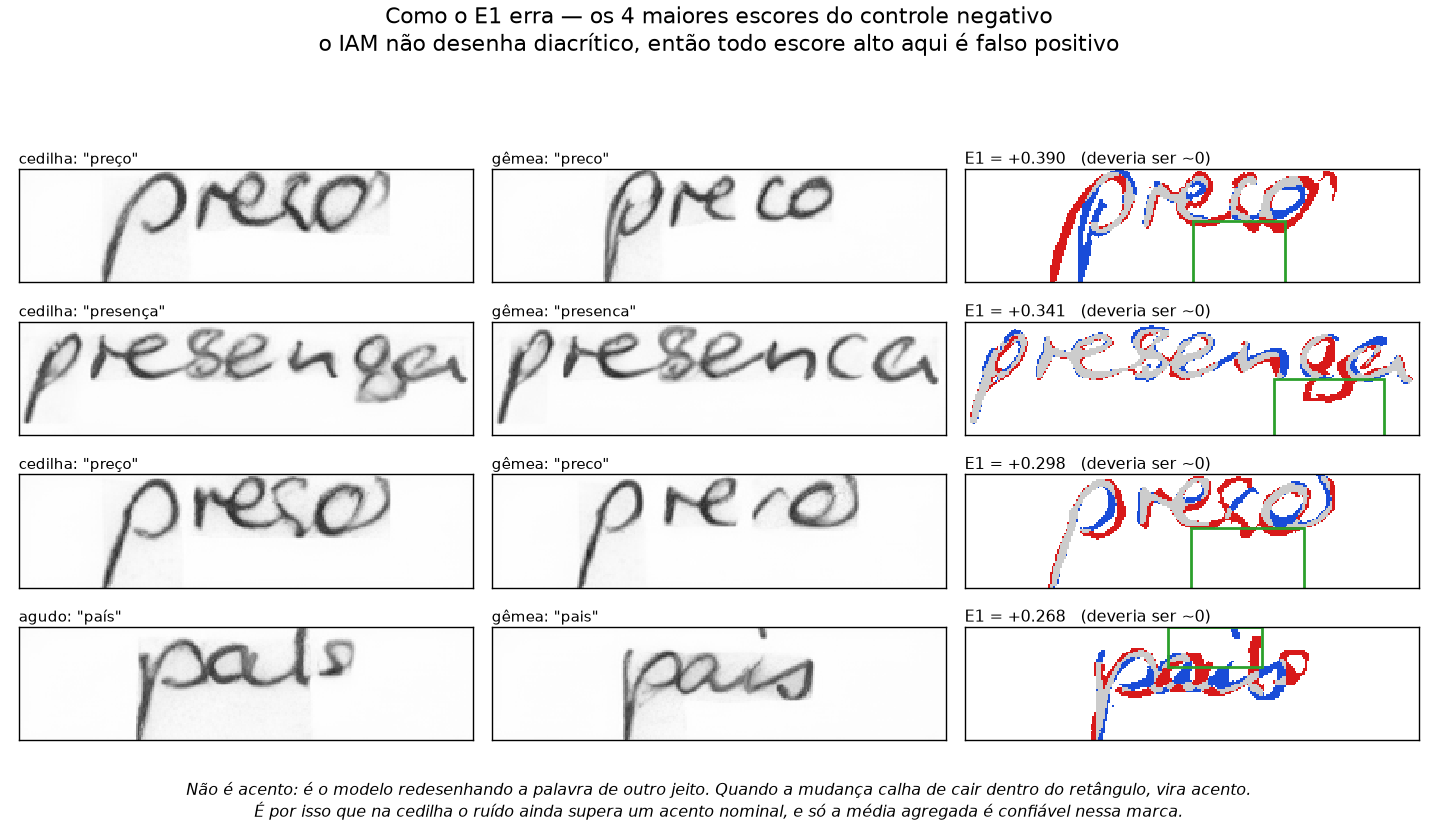
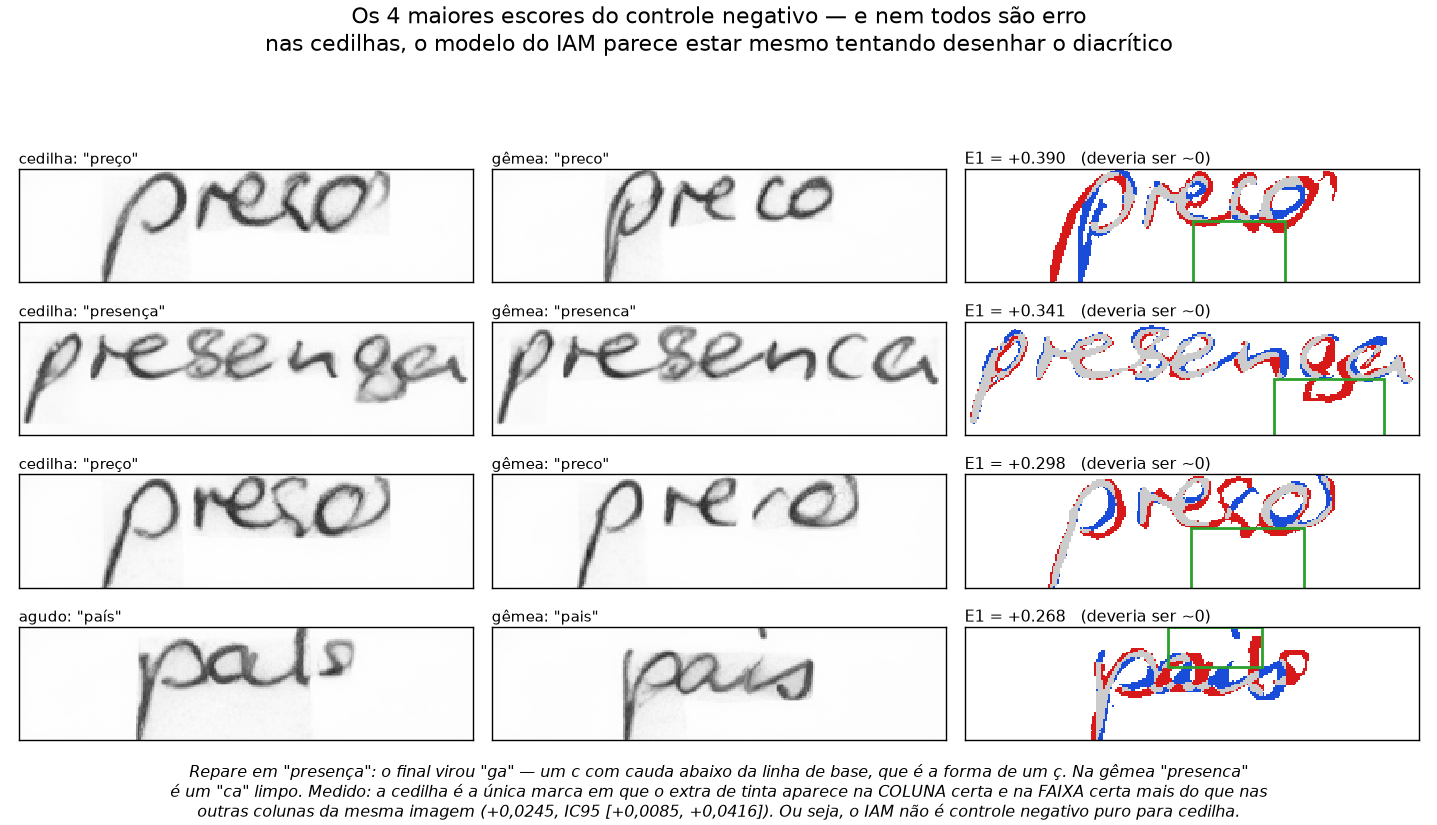
o IAM nao e controle negativo puro para cedilha
O usuario olhou e1_falhas.png e notou que nos maiores escores do controle
negativo o modelo parece estar tentando desenhar o diacritico mesmo: em
"presenca" acentuada o final vira "ga", um c com cauda abaixo da linha de
base, que e a forma de um c cedilha. Na gemea o "ca" sai limpo.

Testado em vez de aceito. Para cada amostra, escore na coluna do acento menos
escore nas outras colunas da MESMA imagem, com a mesma faixa. Se fosse jitter
de traco as duas seriam iguais. Diferenca pareada, IC95 por bootstrap:

  cedilha      +0.0245  [+0.0085, +0.0416]  real
  agudo        +0.0067  [-0.0064, +0.0197]  nao
  grave        -0.0028  [-0.0114, +0.0056]  nao
  circunflexo  -0.0123  [-0.0289, +0.0040]  nao
  til          -0.0112  [-0.0210, -0.0018]  real, mas negativo

E o extra esta na faixa certa, nao no corpo: na coluna do c cedilha o corpo
perde tinta (-0.0245) e a faixa abaixo da linha de base ganha (+0.0338).

Isso muda a interpretacao, nao a implementacao. Eu vinha dizendo que a metrica
e pouco confiavel na cedilha porque o ruido supera um acento nominal. A
leitura correta e que o CONTROLE nao e negativo nessa marca: parte do que eu
chamava de ruido e sinal. O p95 da cedilha calibrado no IAM esta inflado e nao
serve de limiar.

Para o agudo a hipotese nao se sustenta: o "i maior" de um caso isolado de
"pais" nao sobrevive ao teste agregado com n=72.

Corrige o titulo e a legenda de e1_falhas.png, que afirmavam que todo escore
[…]

Changed region(s): [[0.1225, 0.9091, 0.888, 1.0], [0.1837, 0.0, 0.8267, 0.0606]]

diff --git a/avaliacao_diacriticos/figuras.py b/avaliacao_diacriticos/figuras.py
@@ -205,9 +205,9 @@ def _sem_alinhar(a, b, palavra, k):
 def falhas(med):
     piores = sorted(med, key=lambda d: -d["com"])[:4]
     fig, ax = plt.subplots(4, 3, figsize=(11.5, 6.6))
-    fig.suptitle("Como o E1 erra — os 4 maiores escores do controle negativo\n"
-                 "o IAM não desenha diacrítico, então todo escore alto aqui é "
-                 "falso positivo", fontsize=12.5, y=0.995)
+    fig.suptitle("Os 4 maiores escores do controle negativo — e nem todos são erro\n"
+                 "nas cedilhas, o modelo do IAM parece estar mesmo tentando "
+                 "desenhar o diacrítico", fontsize=12.5, y=0.995)
     for i, d in enumerate(piores):
         a, b = e1.tinta(d["acc"]), e1.tinta(d["asc"])
         cinza(ax[i, 0], d["acc"]); limpa(ax[i, 0], f'{d["marca"]}: "{d["r"]["palavra"]}"', 8.5)
@@ -216,10 +216,12 @@ def falhas(med):
         ax[i, 2].title.set_fontsize(8.5)
         caixa(ax[i, 2], b, d["r"]["palavra"], d["idx"], d["onde"] == M.ACIMA)
     fig.tight_layout(rect=[0, 0.045, 1, 0.94])
-    rodape(fig, "Não é acento: é o modelo redesenhando a palavra de outro jeito. "
-                "Quando a mudança calha de cair dentro do retângulo, vira acento.\n"
-                "É por isso que na cedilha o ruído ainda supera um acento nominal, "
-                "e só a média agregada é confiável nessa marca.", y=0.01)
+    rodape(fig, "Repare em \"presença\": o final virou \"ga\" — um c com cauda "
+                "abaixo da linha de base, que é a forma de um ç. Na gêmea \"presenca\"\n"
+                "é um \"ca\" limpo. Medido: a cedilha é a única marca em que o extra "
+                "de tinta aparece na COLUNA certa e na FAIXA certa mais do que nas\n"
+                "outras colunas da mesma imagem (+0,0245, IC95 [+0,0085, +0,0416]). "
+                "Ou seja, o IAM não é controle negativo puro para cedilha.", y=0.01)
     fig.savefig(f"{FIG}/e1_falhas.png", dpi=125)
     plt.close(fig)
     print("  figuras/e1_falhas.png")

diff --git a/avaliacao_diacriticos/README.md b/avaliacao_diacriticos/README.md
@@ -275,6 +275,49 @@ negativo se comportando como esperado. **É esta tabela que dá sentido aos
 números do fine-tune quando ele existir**: 0,05 passa a ser "cerca de um terço
 de acento", não um número solto.
 
+## O IAM não é controle negativo puro para cedilha
+
+Olhando `figuras/e1_falhas.png`, os maiores escores do controle negativo não
+parecem todos ruído: em "presença" o final virou "ga" — um c com cauda abaixo
+da linha de base, que é a forma de um ç —, enquanto a gêmea "presenca" tem um
+"ca" limpo. Em "preço" acontece o mesmo.
+
+Testado em vez de aceito. Para cada amostra, comparei o escore na **coluna do
+acento** com o escore nas **outras colunas da mesma imagem**, com a mesma
+faixa. Se fosse jitter de traço, as duas seriam iguais. Diferença pareada,
+IC95 por bootstrap sobre 4.000 reamostragens:
+
+| marca | diferença | IC95 | efeito real? |
+|---|---|---|---|
+| **cedilha** | **+0,0245** | [+0,0085, +0,0416] | **sim** |
+| agudo | +0,0067 | [−0,0064, +0,0197] | não |
+| grave | −0,0028 | [−0,0114, +0,0056] | não |
+| circunflexo | −0,0123 | [−0,0289, +0,0040] | não |
+| til | −0,0112 | [−0,0210, −0,0018] | sim, mas **negativo** |
+
+E o extra de tinta da cedilha está na faixa certa, não no corpo da letra: na
+coluna do ç o corpo **perde** tinta (−0,0245) enquanto a faixa abaixo da linha
+de base **ganha** (+0,0338). O modelo desloca massa para baixo da linha de
+base, que é o que desenhar uma cedilha faz.
+
+**Consequência, e ela é metodológica.** Eu vinha dizendo que a métrica é pouco
+confiável na cedilha porque o ruído (p95 = 0,238) supera um acento nominal
+(0,165). A leitura correta é outra: **o controle não é negativo nessa marca**.
+O que eu estava chamando de ruído é, em parte, sinal — o IAM produzindo algo
+cedilhoide. Logo o p95 da cedilha calibrado no IAM está inflado e não serve
+como limiar.
+
+Para o agudo a hipótese **não** se sustenta: o "i maior" que aparece num caso
+isolado de "país" não sobrevive ao teste agregado com n=72.
+
+O que isso NÃO estabelece: que o ç gerado seja bem formado ou legível. O que
+está medido é que há tinta a mais, na coluna certa e na faixa certa,
+sistematicamente. Julgar a forma é trabalho da anotação humana (Passo 6).
+
+Nada disso foi corrigido — é uma limitação declarada do controle, não um bug.
+Til, grave e circunflexo continuam com controle negativo válido, e são as
+marcas em que o instrumento está pronto para medir o fine-tune.
+
 ## Alinhar os gêmeos antes de subtrair (e o portão do Passo 1 revisto)
 
 O portão do Passo 1 mediu 6 pares, deu deslocamento zero em todos, e eu
